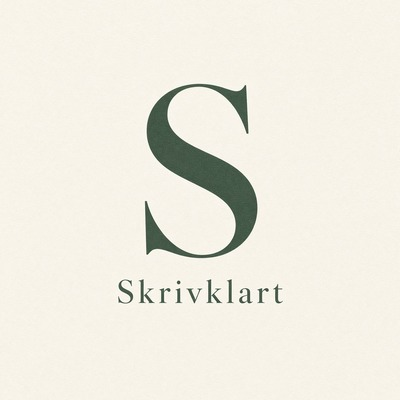
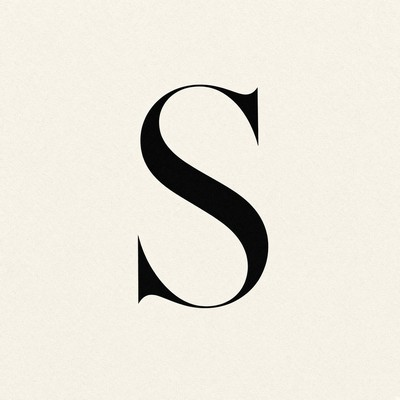
Profilbild S till X/Threads (/profil.jpg)

Changed region(s): [[0.3, 0.21, 0.72, 0.78]]

diff --git a/public/profil.html b/public/profil.html
@@ -1,0 +1,22 @@
+<!doctype html>
+<html lang="sv">
+<head>
+  <meta charset="utf-8" />
+  <meta name="viewport" content="width=device-width, initial-scale=1" />
+  <title>Skrivklart — profilbild</title>
+  <style>
+    html,body{margin:0;background:#111;color:#f3efe6;font:16px/1.4 system-ui,-apple-system,sans-serif;min-height:100%}
+    main{max-width:420px;margin:0 auto;padding:24px 16px 48px;text-align:center}
+    img{width:100%;border-radius:50%;display:block}
+    a{color:#f3efe6}
+    p{opacity:.8}
+  </style>
+</head>
+<body>
+  <main>
+    <p>Håll inne bilden → Spara till Bilder. Sen X och Threads.</p>
+    <img src="/profil.jpg" alt="Skrivklart profil" />
+    <p><a href="/profil.jpg" download="skrivklart-profil.jpg">Ladda ner JPG</a></p>
+  </main>
+</body>
+</html>
